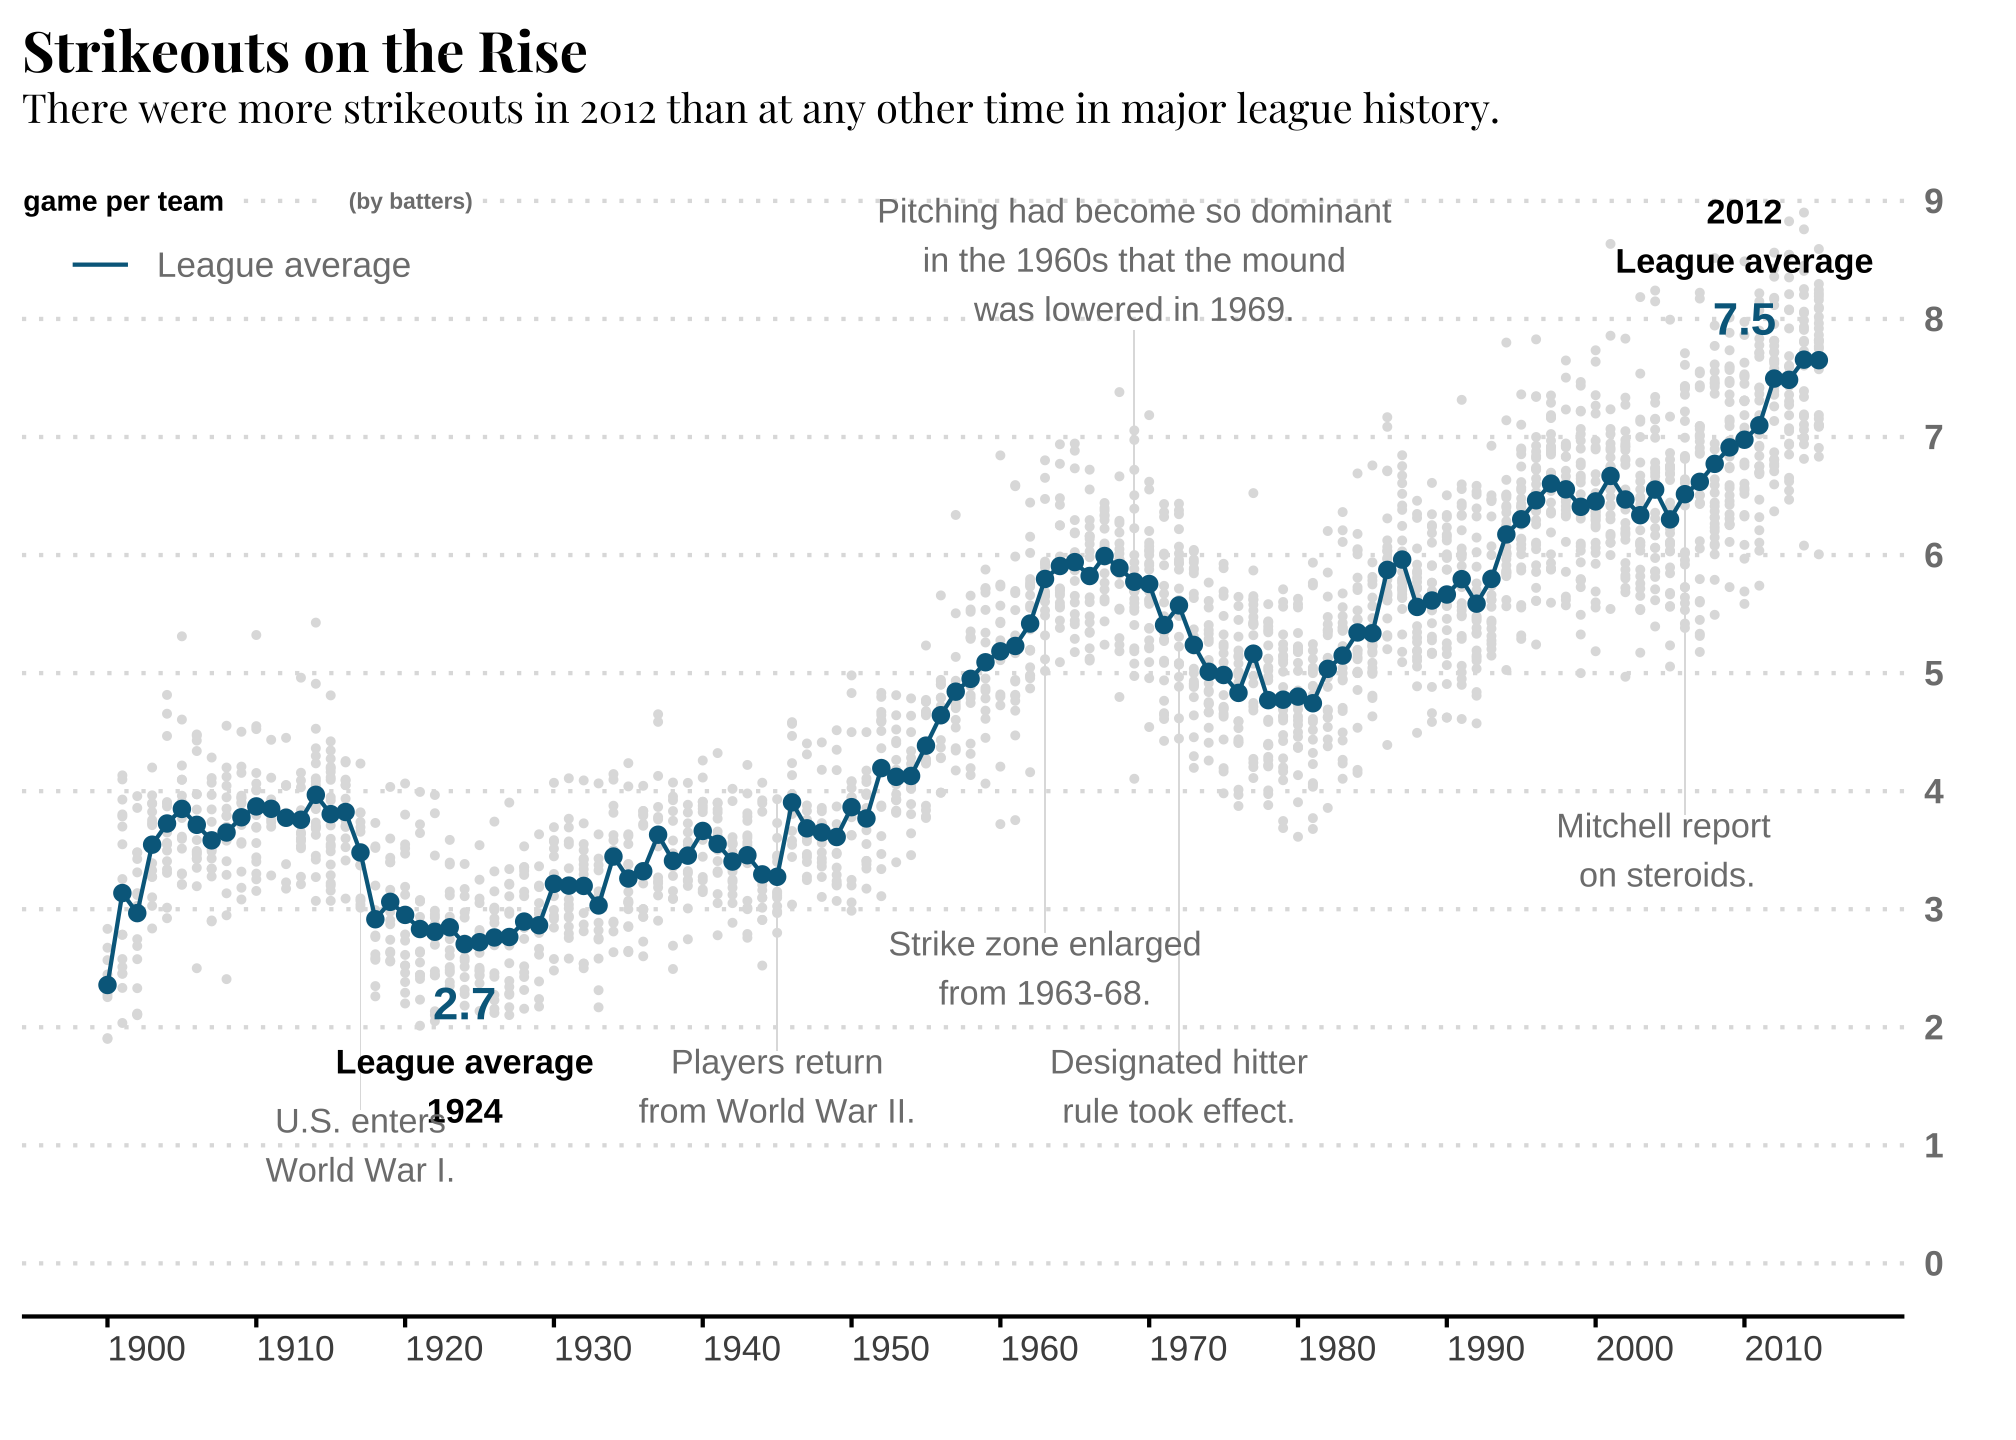
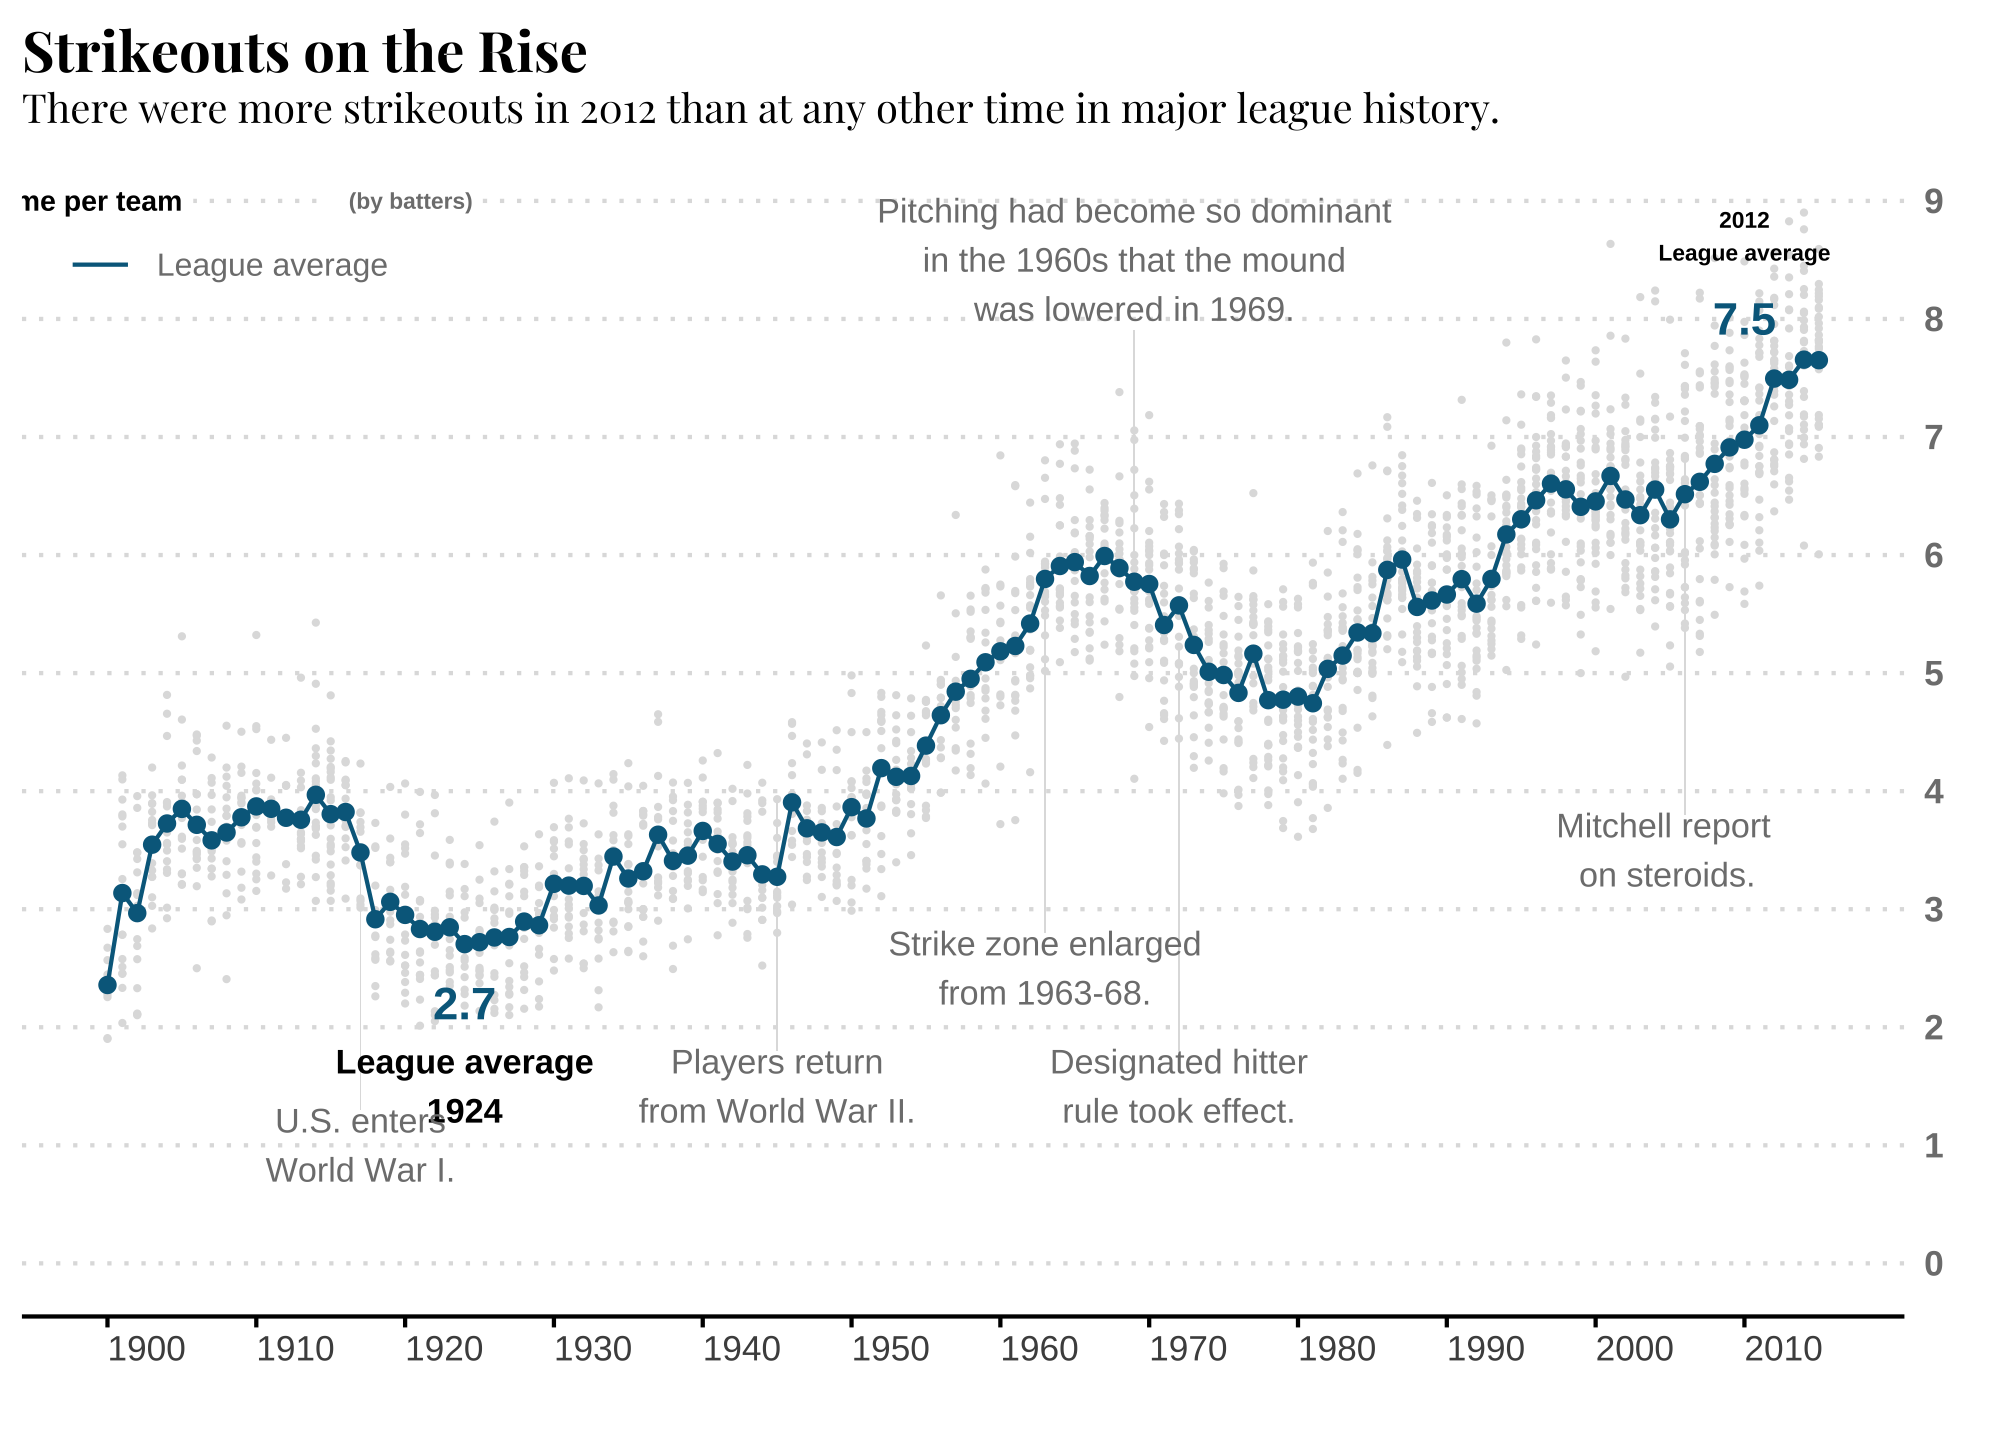
edp693e

Changed region(s): [[0.0, 0.125, 0.1875, 0.2188], [0.8125, 0.125, 0.9375, 0.2188], [0.625, 0.4375, 0.6562, 0.4688]]

diff --git a/content/assignment/05-assignment-sols.html b/content/assignment/05-assignment-sols.html
@@ -368,7 +368,7 @@ showtext_auto()</code></pre>
 <pre class="r"><code>ggplot(team_strikeouts,
        aes(yearID, strikeouts_per_game)) +
   geom_point (color=&quot;#dfdfdf&quot;,
-              size = 0.5) +
+              size = 0.3) +
   geom_segment(aes(x = 1917, y = 1.3, xend = 1917, yend = 3.5), 
                color = &quot;#dfdfdf&quot;,
                size = 0.1) +
@@ -398,7 +398,7 @@ showtext_auto()</code></pre>
   annotate(&quot;text&quot;, x = 2010, y = 8.7, 
            label = &quot;2012\nLeague average&quot;,
            fontface = 2,
-           size = 3) +
+           size = 2) +
   annotate(&quot;text&quot;, x = 2010, y = 8, 
            label = &quot;7.5&quot;,
            fontface = 2,
@@ -406,7 +406,7 @@ showtext_auto()</code></pre>
            size = 4) +
   annotate(&quot;text&quot;, x = 1924, y = 1.5, 
            label = &quot;League average\n1924&quot;, 
-           fontface = 2,
+           fontface = &quot;bold&quot;,
            size = 3) +
   annotate(&quot;text&quot;, x = 1924, y = 2.2, 
            label = &quot;2.7&quot;, 
@@ -458,7 +458,7 @@ showtext_auto()</code></pre>
            fill=&quot;#FFFFFF&quot;,
            label = &quot;Strikeouts per game per team&quot;,
            label.size = NA,
-           hjust = 0.7) +
+           hjust = 0.8) +
   scale_x_continuous(&quot;&quot;,
                    breaks=c(1900,1910,1920,1930,1940,1950,1960,1970,1980,1990,2000,2010), 
                    limits=c(1900,2015)) +
@@ -493,7 +493,8 @@ showtext_auto()</code></pre>
                                          color=NA),
         legend.justification=&#39;left&#39;,
         legend.direction=&#39;horizontal&#39;,
-        legend.text = element_text(color = &quot;#7e7e7e&quot;),
+        legend.text = element_text(color = &quot;#7e7e7e&quot;,
+                                   size = 8),
         legend.title = element_blank()) +
   labs(title = &quot;Strikeouts on the Rise&quot;, 
        subtitle = &quot;There were more strikeouts in 2012 than at any other time in major league history.&quot;
